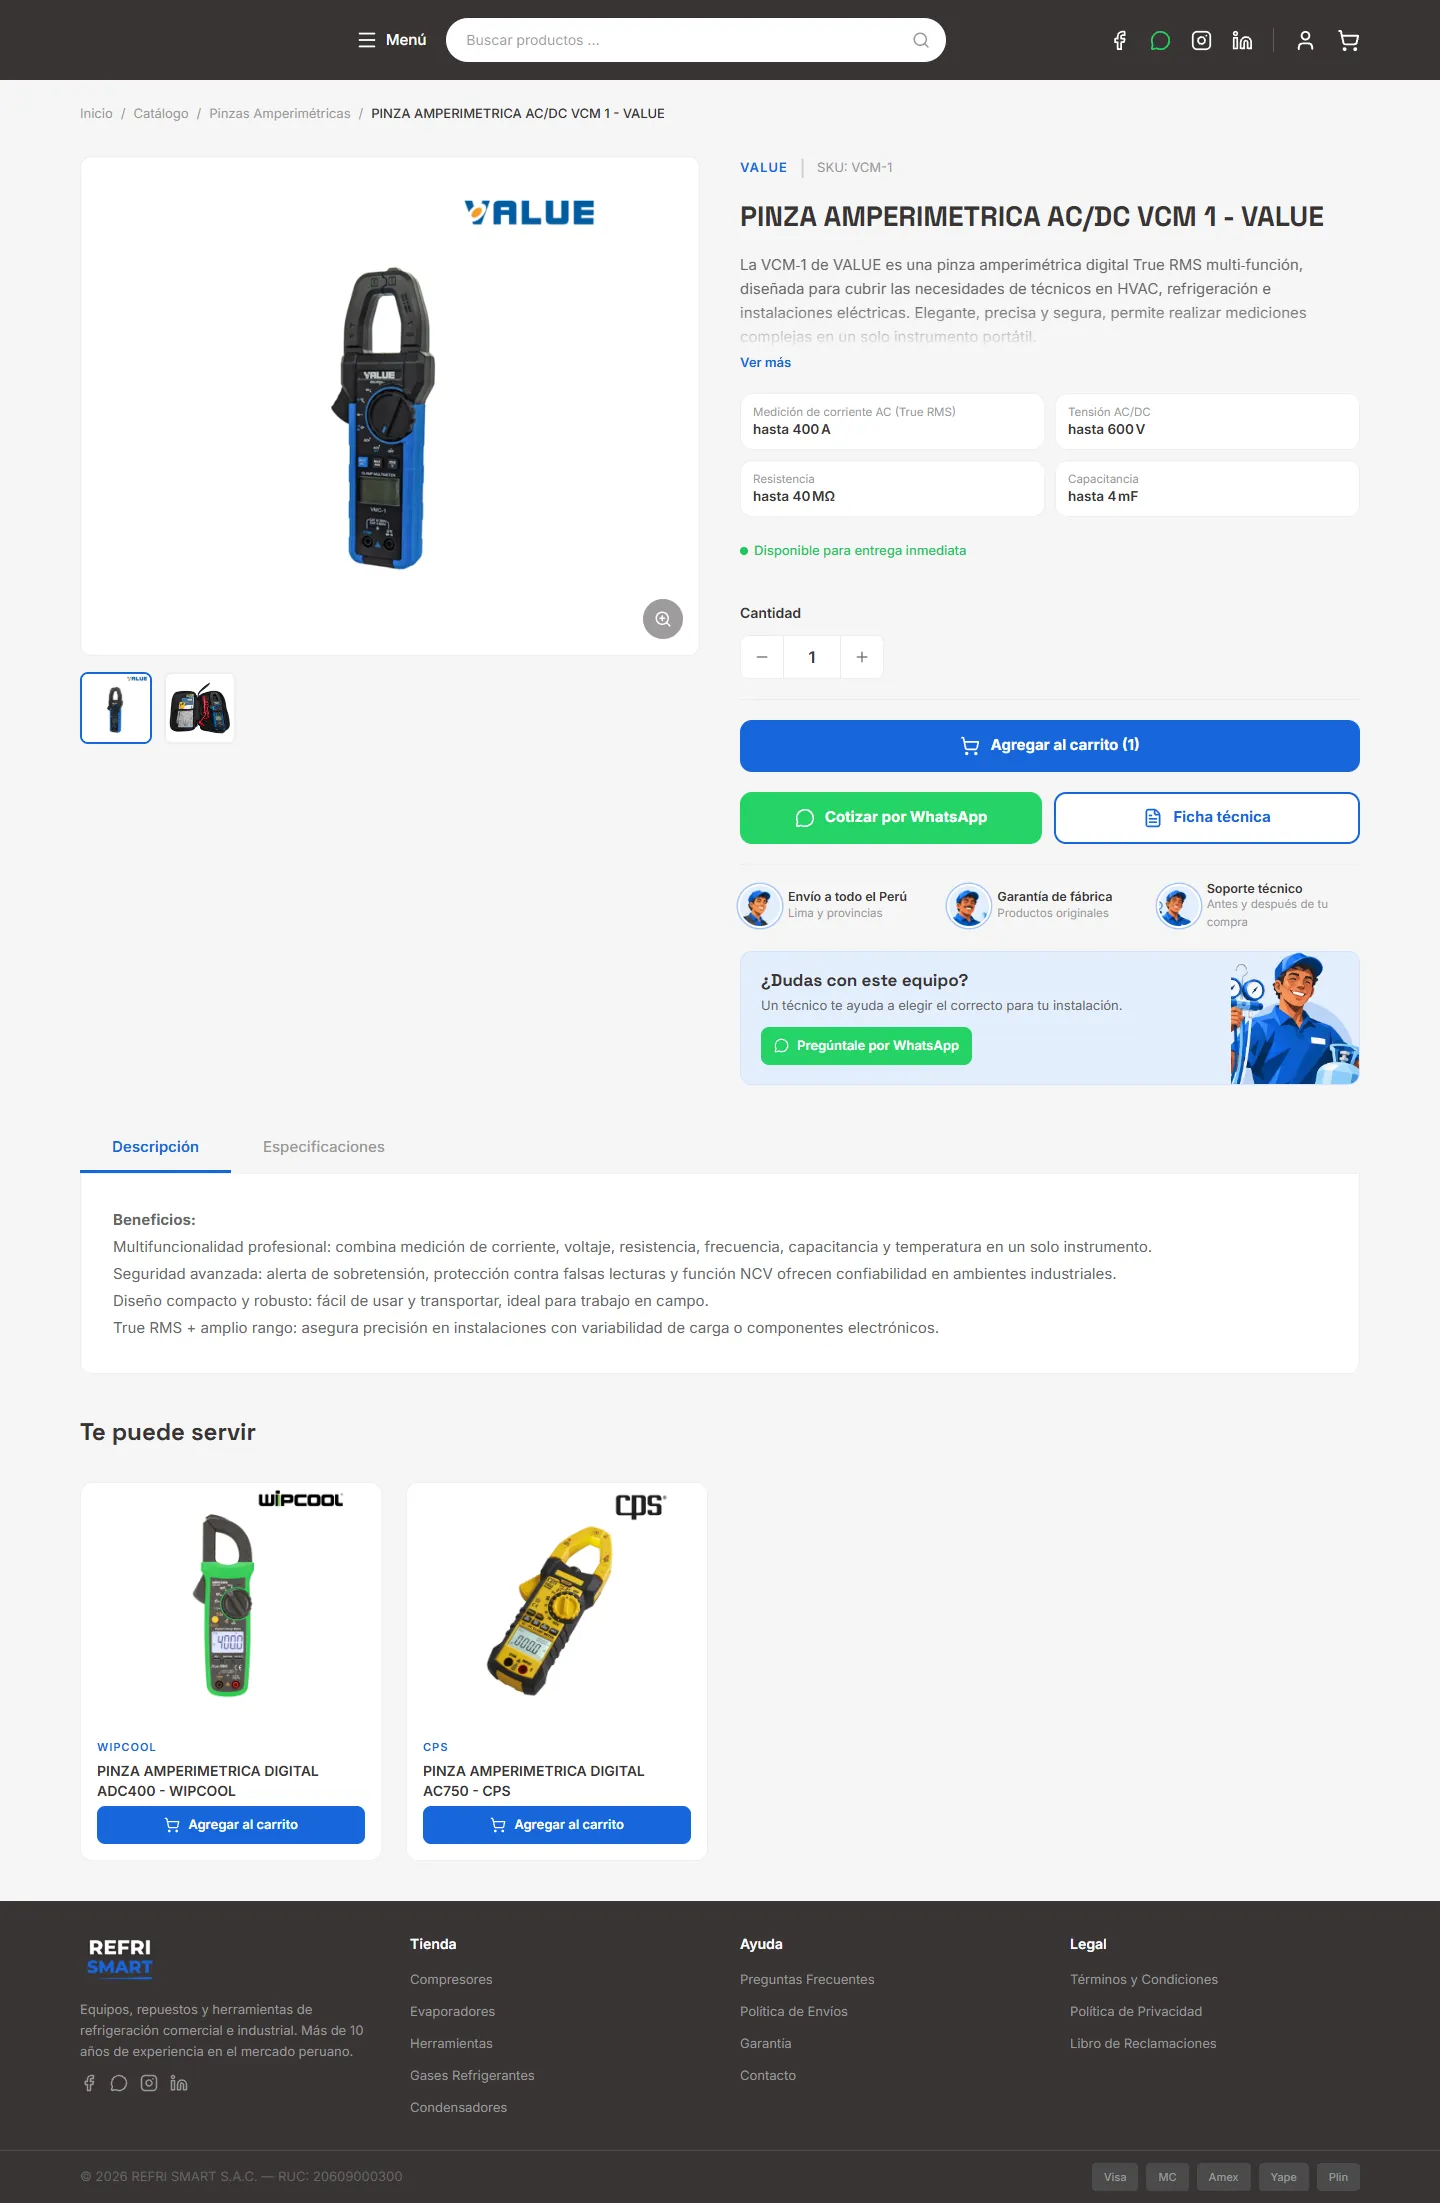
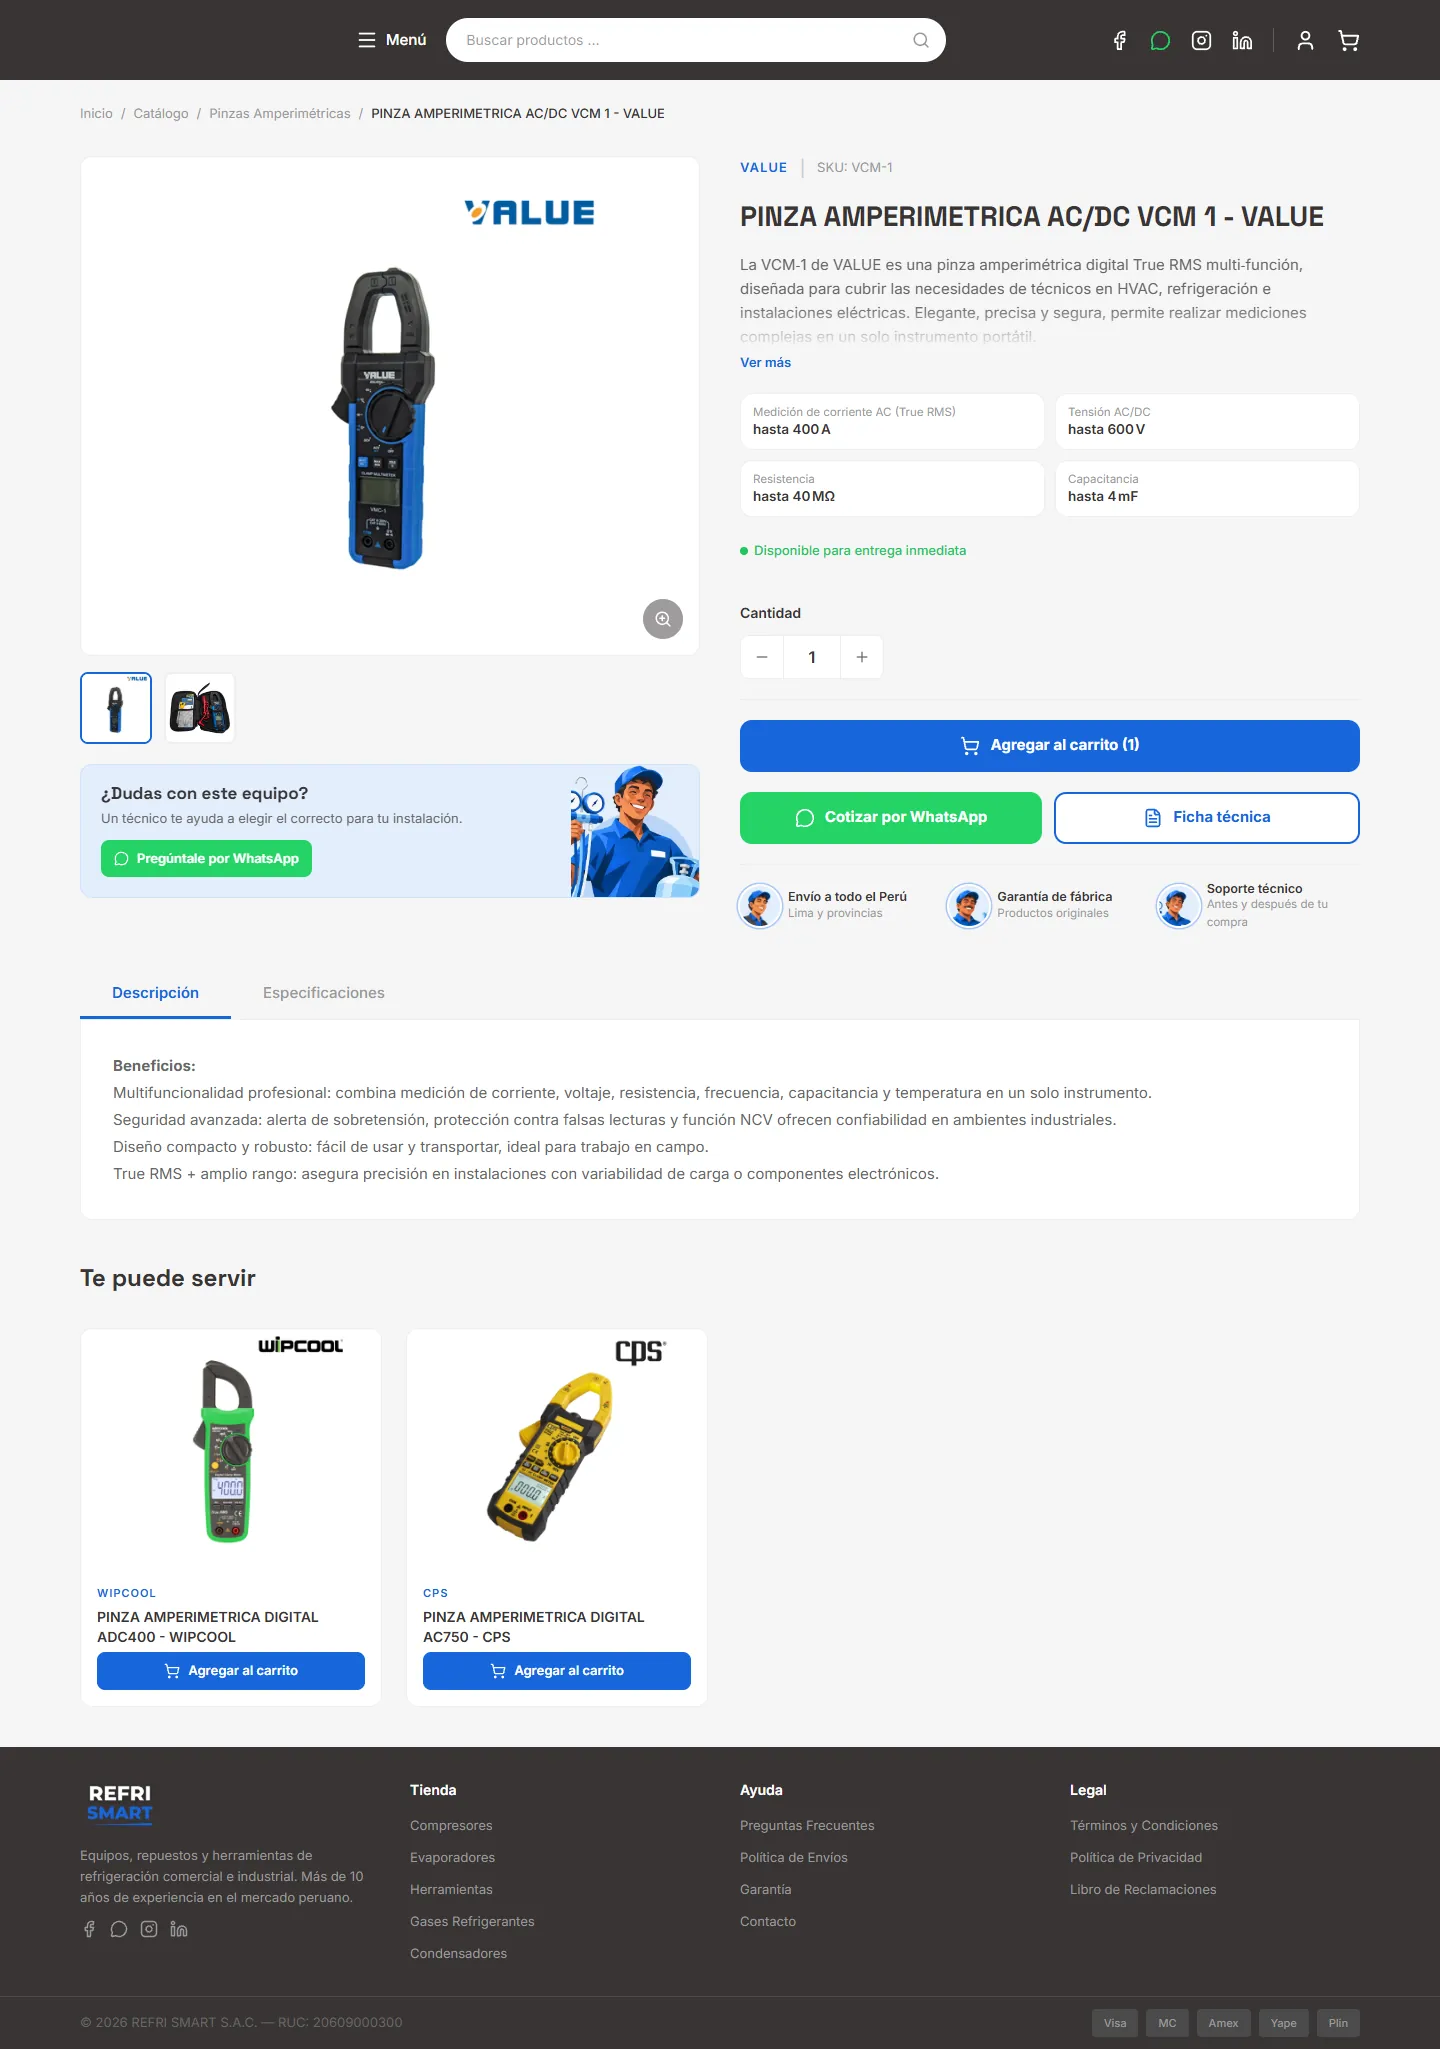
Maqueta: catálogo con cabecera discreta y filtros en panel lateral, detalle sin hueco

diff --git a/index.html b/index.html
@@ -46,14 +46,16 @@ body{font-family:Inter,system-ui,sans-serif;background:var(--bg);color:var(--fg)
 <p class="nota" id="nota"></p>
 <div class="cont">
   <div class="ventana"><div class="top"><i></i><i></i><i></i><em id="url">refrismartsac.com</em></div><div class="scroll" id="sd"><img id="imd" alt="Escritorio"></div></div>
-  <div class="cel-col"><div class="cel"><div class="scroll" id="sm"><img id="imm" alt="Celular"></div></div><p>Celular (390 px)</p></div>
+  <div class="cel-col"><div class="cel"><div class="scroll" id="sm"><img id="imm" alt="Celular"></div></div><p>Celular (390 px)</p>
+    <div id="extra" style="display:none;margin-top:18px;text-align:center"><div class="cel"><img src="img/catalogo-ahora-m-filtros.webp" alt="Filtros abiertos en celular" style="display:block;width:100%"></div><p style="margin-top:8px">Al tocar «Filtrar y ordenar»: el panel entra desde la izquierda</p></div>
+  </div>
 </div>
 <script>
 const PANTALLAS = [
   ['inicio', 'Inicio', '/', 'Carrusel nuevo con los mismos productos, banners solo con productos, 3 pasos para cotizar y franja de confianza.'],
   ['menu', 'Menú', '/', 'Mismo fondo e íconos; ahora con cantidad de productos, subcategorías, rubros ilustrados y ayuda por WhatsApp.'],
-  ['catalogo', 'Catálogo', '/catalogo?categoria=herramientas', 'Banner de la categoría con subcategorías, 2 productos por fila en celular y ayuda ilustrada.'],
-  ['producto', 'Detalle', '/producto/pinza-amperimetrica-ac-dc-vcm-1-value', 'Características clave, botones ordenados, confianza con retratos, ayuda ilustrada y barra fija en celular.'],
+  ['catalogo', 'Catálogo', '/catalogo?categoria=herramientas', 'Cabecera discreta con subcategorías en chips, 2 productos por fila en celular y, en celular, un chip flotante «Filtrar y ordenar» que abre los filtros desde la izquierda.'],
+  ['producto', 'Detalle', '/producto/pinza-amperimetrica-ac-dc-vcm-1-value', 'Características clave, botones ordenados, confianza con retratos, ayuda ilustrada bajo la galería (sin huecos) y barra fija en celular.'],
   ['carrito', 'Carrito / cotizar', '/carrito', '3 pasos ilustrados, nota para el asesor, resumen con la asesora y productos que te pueden servir.'],
 ];
 let p = 'inicio', v = 'ahora';
@@ -69,6 +71,7 @@ function pintar() {
   document.getElementById('imm').src = `img/${p}-${v}-m.webp`;
   document.getElementById('url').textContent = 'refrismartsac.com' + (pant[2] === '/' ? '' : pant[2]) + (v === 'antes' ? '  ·  hoy' : '  ·  propuesta B');
   document.getElementById('nota').textContent = v === 'antes' ? 'Así se ve hoy la web.' : pant[3];
+  document.getElementById('extra').style.display = p === 'catalogo' && v === 'ahora' ? 'block' : 'none';
   document.getElementById('sd').scrollTop = 0; document.getElementById('sm').scrollTop = 0;
   history.replaceState(null, '', `?p=${p}&v=${v}`);
 }
